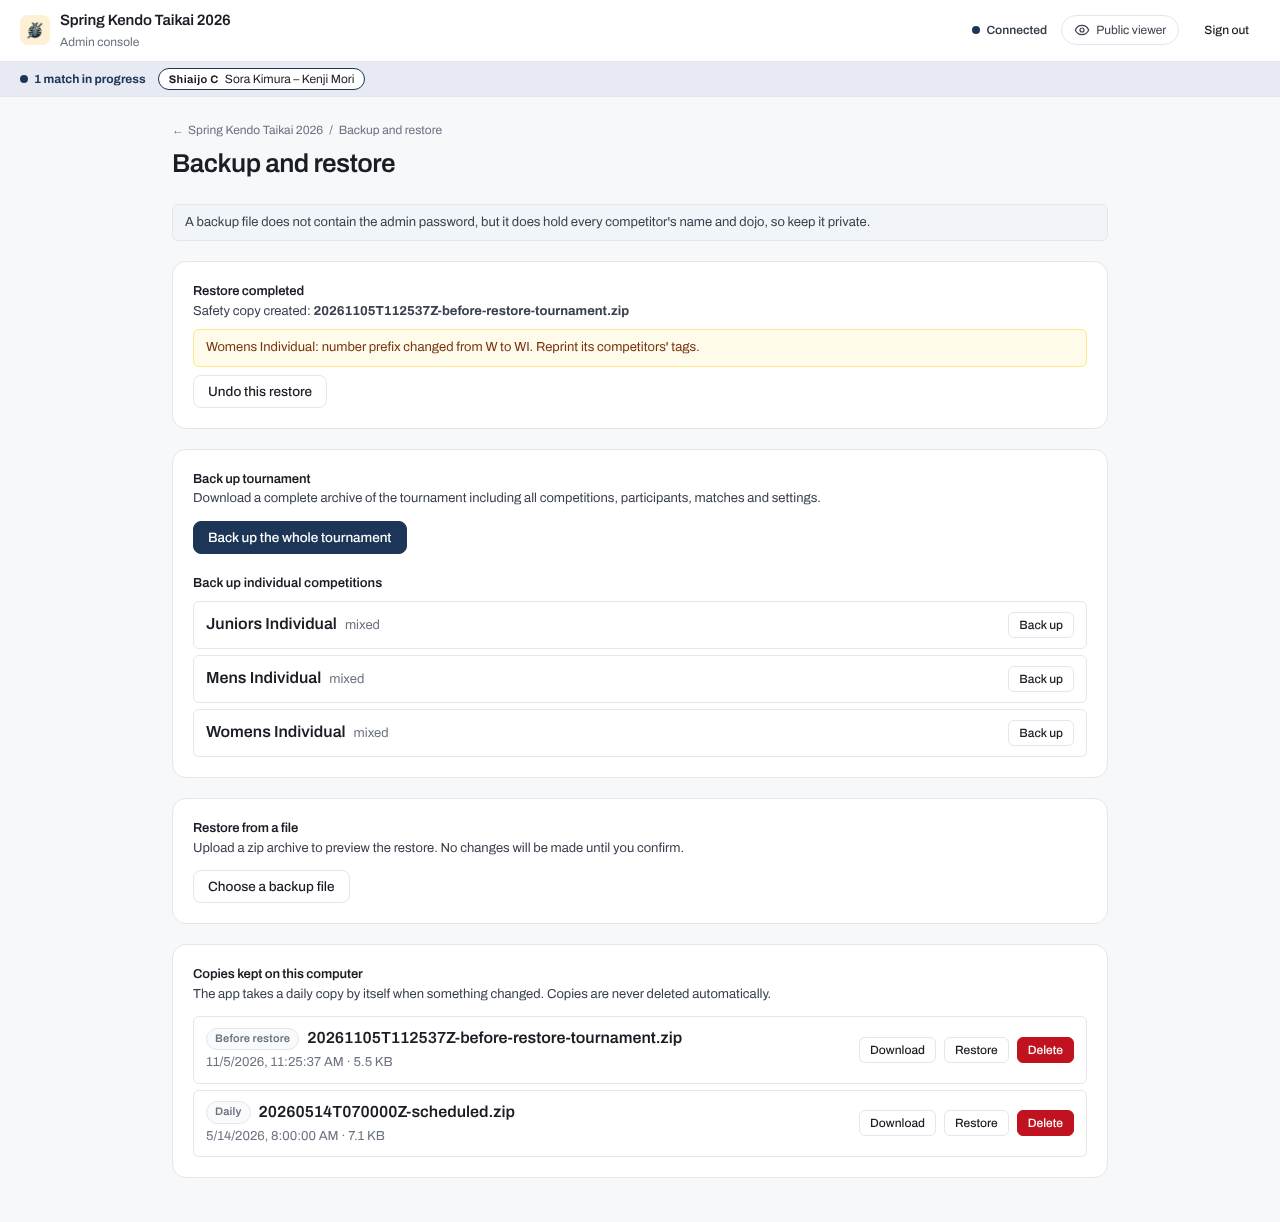
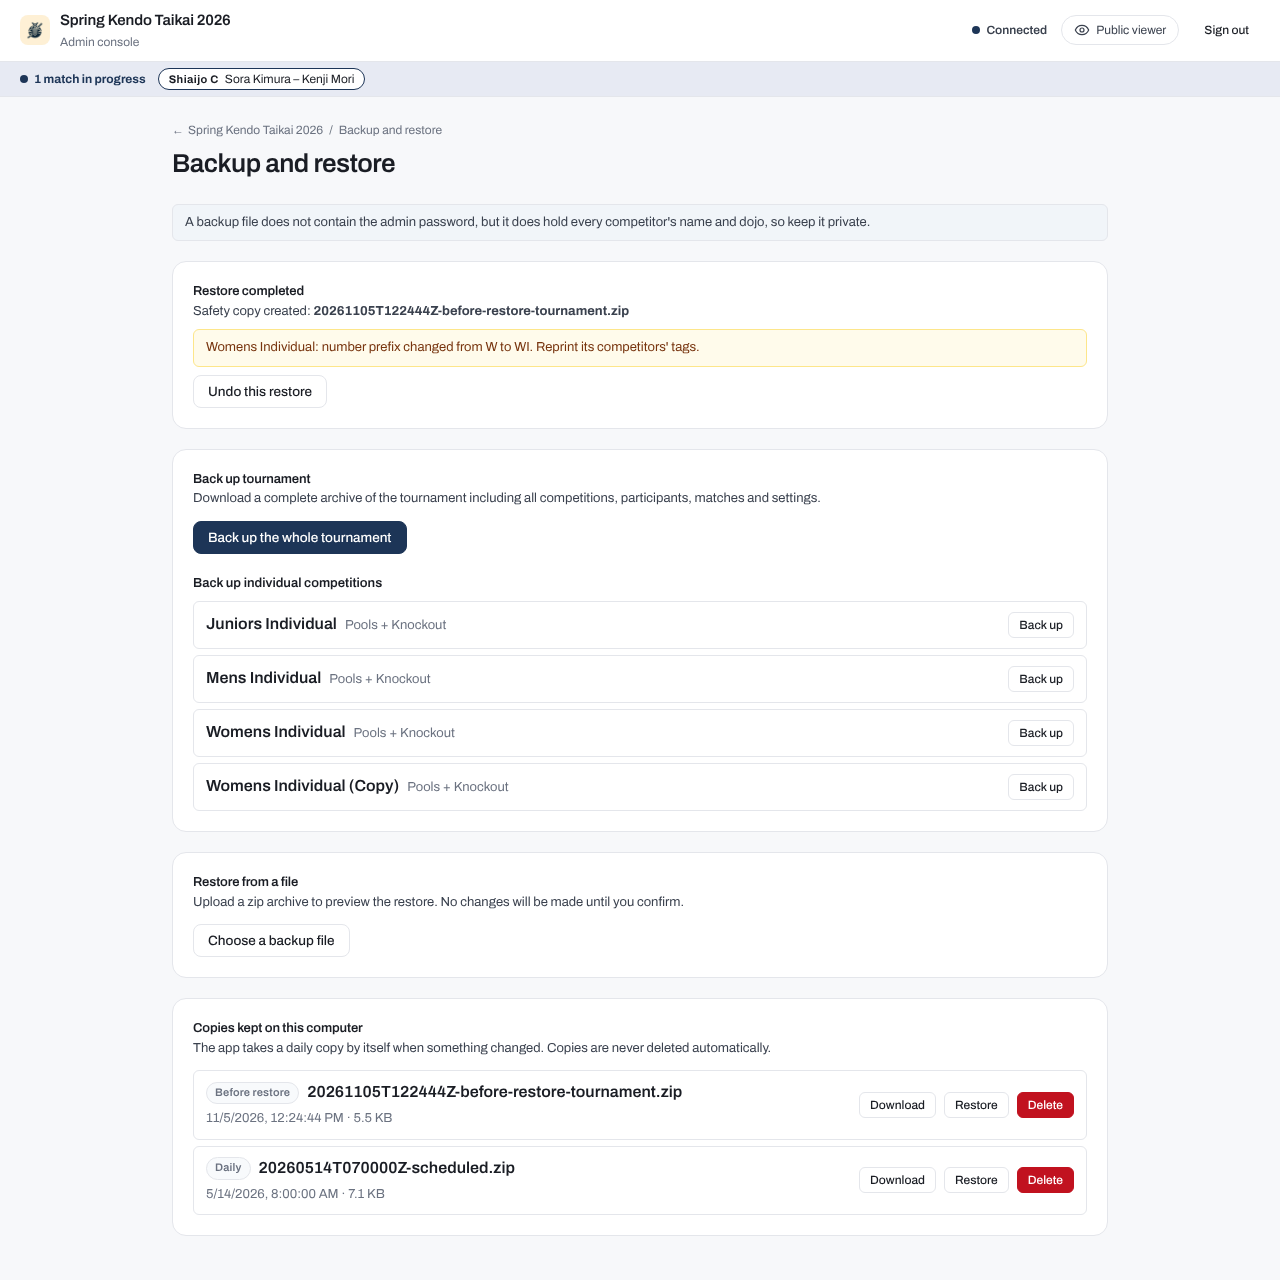
fix(bc-bkrs): the restore plan names each competition once and reads its format
A repeat design audit of the backup page found four major and five minor
findings, now fixed:

- Each competition's choices are one group named by the competition, so the
  labels say only what they do (Replace it, Keep it, Remove it) and the name is
  not repeated in every label.
- The results list says "lost or changed" once, in its heading, and counts a
  single result as "1 recorded result".
- The copy-name box has its own accessible name; it was named only by its
  placeholder, which repeated the competition's name.
- Each competition's format shows its label (Pools + Knockout, Knockout), not
  the stored code, and a competition with no format reads Knockout as it does
  everywhere else.
- The court-sync warning leads with what to do and lists the three outcomes,
  including an older score going to the match's history, as the docs say.
- Headings go h1, h2, h3 without skipping; the safety copy and file name lines
  use their own class; the kept-copy time line uses 4px from the spacing set.
- A long competition name wraps in its own column, so its button stays on the
  right at phone width.

diff --git a/web-mobile/js/admin_backup.jsx b/web-mobile/js/admin_backup.jsx
@@ -5,6 +5,8 @@ const { useState, useEffect, useRef, useCallback } = React;
 
 const AdminTopbar = window.AdminTopbar;
 const Breadcrumbs = window.Breadcrumbs;
+const formatLabel = window.formatLabel;
+const pluralize = window.pluralize;
 
 const RESTORE_TOO_LARGE_MESSAGE = "The backup file is over 64 MB. Restore it from Copies kept on this computer or the command line.";
 
@@ -366,7 +368,7 @@ function AdminBackupPage({ tournament, onBack, onLogout, onViewerMode, password,
             <div className="card__title">Restore completed</div>
             <div className="card__body">
               {restoreResult.safetyCopy && (
-                <p className="backup-intro">
+                <p className="backup-detail">
                   Safety copy created: <strong>{restoreResult.safetyCopy}</strong>
                 </p>
               )}
@@ -425,13 +427,13 @@ function AdminBackupPage({ tournament, onBack, onLogout, onViewerMode, password,
 
             {comps.length > 0 && (
               <>
-                <h3 className="backup-subhead">Back up individual competitions</h3>
+                <h2 className="backup-subhead">Back up individual competitions</h2>
                 <div className="backup-list">
                   {comps.map((c) => (
                     <div key={c.id} className="backup-row">
                       <div className="backup-row__main">
                         <span className="backup-row__name">{c.name}</span>
-                        <span className="backup-row__meta">{c.format || "pools"}</span>
+                        <span className="backup-row__meta">{formatLabel(c.format)}</span>
                       </div>
                       <button
                         type="button"
@@ -480,16 +482,21 @@ function AdminBackupPage({ tournament, onBack, onLogout, onViewerMode, password,
 
             {plan && (
               <div className="backup-plan">
-                <h3 className="backup-subhead">Restore plan ({plan.scope} archive)</h3>
+                <h2 className="backup-subhead">Restore plan ({plan.scope} archive)</h2>
                 {(selectedFromName || selectedFile?.name) && (
-                  <p className="backup-intro">
+                  <p className="backup-detail">
                     From <strong>{selectedFromName || selectedFile.name}</strong>
                   </p>
                 )}
 
                 <div className="backup-alerts">
                   <div className="alert alert--warn">
-                    Let every court device sync before you restore. A change a court device makes before the restore and sends after it is usually applied when it arrives, because it is newer than the restored record. If the restored copy already has that match finished, the change is kept in the match&apos;s history instead and not shown. If the restored copy does not hold that match, the change is refused.
+                    <strong>Let every court device sync before you restore.</strong> A score a device sends after the restore:
+                    <ul>
+                      <li>is applied when it is newer than the restored match</li>
+                      <li>goes to the match&apos;s history, not the result, when it is older or the backup has that match finished</li>
+                      <li>is refused when the backup does not hold that match</li>
+                    </ul>
                   </div>
                   {(plan.warnings || []).map((w) => (
                     <div key={`${w.code}-${w.competitionId || ""}-${w.court || ""}`} className="alert alert--warn">
@@ -498,13 +505,13 @@ function AdminBackupPage({ tournament, onBack, onLogout, onViewerMode, password,
                   ))}
                   {(plan.competitions || []).some((c) => c.resultsChanged && c.resultsChanged.length > 0) && (
                     <div className="alert alert--error">
-                      <strong>Results that will be lost:</strong>
+                      <strong>Results that will be lost or changed:</strong>
                       <ul>
                         {plan.competitions
                           .filter((c) => c.resultsChanged && c.resultsChanged.length > 0)
                           .map((c) => (
                             <li key={c.id}>
-                              {c.resultsChanged.length} recorded results in &quot;{c.name}&quot; will be lost or changed.
+                              {pluralize(c.resultsChanged.length, "recorded result")} in &quot;{c.name}&quot;
                             </li>
                           ))}
                       </ul>
@@ -512,16 +519,17 @@ function AdminBackupPage({ tournament, onBack, onLogout, onViewerMode, password,
                   )}
                 </div>
 
-                <h4 className="backup-subhead">Competitions to restore</h4>
+                <h3 className="backup-subhead">Competitions to restore</h3>
                 <div className="backup-list">
                   {plan.competitions.map((c) => {
                     const currentDecision = decisions[c.id] || {};
                     const isMissingFromArchive = c.choices?.includes("keep") || c.choices?.includes("remove");
+                    const nameId = `backup-comp-${c.id}`;
 
                     return (
                       <div key={c.id} className="backup-row backup-row--plan">
                         <div className="backup-row__head">
-                          <span className="backup-row__name">{c.name}</span>
+                          <span id={nameId} className="backup-row__name">{c.name}</span>
                           {plan.scope === "tournament" && !plan.undo && !onlyCompId && !isMissingFromArchive && (
                             <button
                               type="button"
@@ -548,8 +556,8 @@ function AdminBackupPage({ tournament, onBack, onLogout, onViewerMode, password,
                         {!c.asked ? (
                           <div className="backup-row__note">Will be created as a new competition.</div>
                         ) : isMissingFromArchive ? (
-                          <div>
-                            <div className="backup-row__note">This competition is not in the backup archive:</div>
+                          <fieldset className="backup-choices" aria-labelledby={`${nameId} ${nameId}-note`}>
+                            <legend id={`${nameId}-note`} className="backup-row__note">This competition is not in the backup archive:</legend>
                             <label className="backup-choice">
                               <input
                                 type="radio"
@@ -558,7 +566,7 @@ function AdminBackupPage({ tournament, onBack, onLogout, onViewerMode, password,
                                 checked={currentDecision.action === "keep"}
                                 onChange={() => handleDecisionChange(c.id, "keep")}
                               />
-                              Keep &quot;{c.name}&quot;
+                              Keep it
                             </label>
                             <label className="backup-choice">
                               <input
@@ -568,12 +576,12 @@ function AdminBackupPage({ tournament, onBack, onLogout, onViewerMode, password,
                                 checked={currentDecision.action === "remove"}
                                 onChange={() => handleDecisionChange(c.id, "remove")}
                               />
-                              Remove &quot;{c.name}&quot;
+                              Remove it
                             </label>
-                          </div>
+                          </fieldset>
                         ) : (
-                          <div>
-                            <div className="backup-row__note">This competition already exists:</div>
+                          <fieldset className="backup-choices" aria-labelledby={`${nameId} ${nameId}-note`}>
+                            <legend id={`${nameId}-note`} className="backup-row__note">This competition already exists:</legend>
                             <label className="backup-choice">
                               <input
                                 type="radio"
@@ -582,7 +590,7 @@ function AdminBackupPage({ tournament, onBack, onLogout, onViewerMode, password,
                                 checked={currentDecision.action === "replace"}
                                 onChange={() => handleDecisionChange(c.id, "replace")}
                               />
-                              Replace &quot;{c.name}&quot;
+                              Replace it
                             </label>
                             <label className="backup-choice backup-choice--copy">
                               <span className="backup-choice__radio">
@@ -598,13 +606,13 @@ function AdminBackupPage({ tournament, onBack, onLogout, onViewerMode, password,
                               <input
                                 type="text"
                                 className="input backup-copy-name"
-                                placeholder={`${c.name} (Copy)`}
+                                aria-label={`Name for the copy of "${c.name}"`}
                                 value={currentDecision.copyName || ""}
                                 onChange={(e) => handleDecisionChange(c.id, "copy", e.target.value)}
                                 onClick={() => handleDecisionChange(c.id, "copy")}
                               />
                             </label>
-                          </div>
+                          </fieldset>
                         )}
                       </div>
                     );

diff --git a/web-mobile/js/__tests__/render/admin_backup.render.test.jsx b/web-mobile/js/__tests__/render/admin_backup.render.test.jsx
@@ -1,5 +1,5 @@
 import React from 'react';
-import { render, act, fireEvent, waitFor, screen } from '@testing-library/react';
+import { render, act, fireEvent, waitFor, screen, within } from '@testing-library/react';
 import { describe, it, expect, vi, beforeAll, afterAll, beforeEach } from 'vitest';
 import { installWindowStubs } from '../helpers/stub_globals.js';
 
@@ -42,13 +42,18 @@ afterAll(() => {
   restoreGlobals();
 });
 
+// A competition's choices are one group, named by the competition; inside it
+// each label says only what it does ("Replace it"), so the name is said once.
+const choiceIn = (compName, label) =>
+  within(screen.getByRole('group', { name: new RegExp(`^${compName} `) })).getByLabelText(label);
+
 const defaultTournament = {
   name: 'Spring Taikai',
   date: '01-06-2026',
   venue: 'Main Arena',
   courts: ['A', 'B'],
   competitions: [
-    { id: 'c1', name: 'Open Individual', format: 'pools' },
+    { id: 'c1', name: 'Open Individual', format: 'mixed' },
     { id: 'c2', name: 'Women Individual', format: 'knockout' },
   ],
 };
@@ -143,7 +148,7 @@ describe('AdminBackupPage render tests', () => {
     expect(screen.getByText('Matches running')).toBeInTheDocument();
     expect(screen.getByText('Mode change')).toBeInTheDocument();
     expect(screen.getByText('Court missing')).toBeInTheDocument();
-    expect(screen.getByText(/1 recorded results in "Open Individual" will be lost or changed/i)).toBeInTheDocument();
+    expect(screen.getByText(/^1 recorded result in "Open Individual"$/)).toBeInTheDocument();
 
     // Verify both choice sets rendered with nothing preselected
     const radios = screen.getAllByRole('radio');
@@ -156,7 +161,7 @@ describe('AdminBackupPage render tests', () => {
     expect(restoreBtn).toBeDisabled();
 
     // Answer choice for c1 as "replace"
-    const replaceRadio = screen.getByLabelText(/Replace "Open Individual"/i);
+    const replaceRadio = choiceIn('Open Individual', 'Replace it');
     await act(async () => {
       fireEvent.click(replaceRadio);
     });
@@ -166,7 +171,7 @@ describe('AdminBackupPage render tests', () => {
     expect(restoreBtn2).toBeDisabled();
 
     // Answer choice for c3_missing as "remove"
-    const removeRadio = screen.getByLabelText(/Remove "Legacy Division"/i);
+    const removeRadio = choiceIn('Legacy Division', 'Remove it');
     await act(async () => {
       fireEvent.click(removeRadio);
     });
@@ -453,7 +458,7 @@ describe('AdminBackupPage render tests', () => {
 
     // Expect choices to be asked
     await waitFor(() => {
-      expect(screen.getByLabelText(/Replace "Open Individual"/i)).toBeInTheDocument();
+      expect(choiceIn('Open Individual', 'Replace it')).toBeInTheDocument();
     });
   });
 
@@ -493,7 +498,7 @@ describe('AdminBackupPage render tests', () => {
     // The server's warning is the one place running matches are named: no second list repeats it.
     expect(screen.getByText('Open Individual has 1 match running now.')).toBeInTheDocument();
     expect(screen.queryByText(/Running matches affected/i)).not.toBeInTheDocument();
-    expect(screen.getByText(/2 recorded results in "Open Individual" will be lost or changed/i)).toBeInTheDocument();
+    expect(screen.getByText(/^2 recorded results in "Open Individual"$/)).toBeInTheDocument();
     expect(screen.getByText(/Let every court device sync before you restore/i)).toBeInTheDocument();
   });
 
@@ -525,6 +530,29 @@ describe('AdminBackupPage render tests', () => {
     expect(screen.queryByText(/m7/)).not.toBeInTheDocument();
     expect(screen.getAllByText(/Juniors/).filter((el) => /Choose what to do/.test(el.textContent))).toHaveLength(1);
     expect(screen.queryByText(/Please /)).not.toBeInTheDocument();
+    // The competition's name heads its row once; the choices do not repeat it.
+    const group = screen.getByRole('group', { name: /Juniors.*not in the backup archive/ });
+    expect(within(group).getByLabelText('Keep it')).toBeInTheDocument();
+    expect(within(group).getByLabelText('Remove it')).toBeInTheDocument();
+    expect(within(group).queryByText(/Juniors/)).not.toBeInTheDocument();
+  });
+
+  it('names the copy box for its competition and shows each format by its label', async () => {
+    mockApi.planRestore.mockResolvedValueOnce({
+      scope: 'tournament',
+      competitions: [{ id: 'c1', name: 'Open Individual', asked: true, choices: ['replace', 'copy'] }],
+    });
+    const { container } = render(
+      <AdminBackupPage tournament={defaultTournament} password={TEST_KEY} />
+    );
+    expect(screen.getByText('Pools + Knockout')).toBeInTheDocument();
+    expect(screen.getByText('Knockout')).toBeInTheDocument();
+    const fileInput = container.querySelector('input[type="file"]');
+    await act(async () => {
+      fireEvent.change(fileInput, { target: { files: [new File(['dummy'], 'backup.zip')] } });
+    });
+    const box = await screen.findByRole('textbox', { name: 'Name for the copy of "Open Individual"' });
+    expect(box).not.toHaveAttribute('placeholder');
   });
 
   it('b. allowRunning: with running matches in the plan, restore is called with allowRunning true; without, it is not', async () => {
@@ -773,7 +801,8 @@ describe('AdminBackupPage render tests', () => {
     expect(mockApi.planRestore.mock.calls[0][0].undo).not.toBe(true);
 
     // Asked choices render with nothing selected
-    const radio = await screen.findByLabelText(/Replace "Open Individual"/i);
+    await screen.findByRole('group', { name: /Open Individual/ });
+    const radio = choiceIn('Open Individual', 'Replace it');
     expect(radio).toBeInTheDocument();
     expect(radio).not.toBeChecked();
 

diff --git a/web-mobile/css/styles.css b/web-mobile/css/styles.css
@@ -11306,7 +11306,8 @@ abbr.msb-lab { text-decoration: none; cursor: help; }
 .backup-page { max-width: 1000px; }
 .backup-page > .alert,
 .backup-page > .card { margin-bottom: 20px; }
-.backup-intro {
+.backup-intro,
+.backup-detail {
   margin: 0 0 12px;
   font-size: var(--fs-sm);
   line-height: var(--lh-base);
@@ -11362,6 +11363,10 @@ abbr.msb-lab { text-decoration: none; cursor: help; }
 .backup-row__main,
 .backup-row__name { min-width: 0; overflow-wrap: anywhere; }
 .backup-row__name { font-weight: 600; }
+/* The name column wraps its own text before the row drops its buttons below,
+   so a long name never moves the button; only a row of several buttons wraps. */
+.backup-row__main { flex: 1 1 10rem; }
+.backup-row__head .backup-row__name { flex: 1 1 0; }
 .backup-row__main .backup-row__meta { margin-left: 8px; }
 .backup-row__title {
   display: flex;
@@ -11369,7 +11374,7 @@ abbr.msb-lab { text-decoration: none; cursor: help; }
   align-items: center;
   gap: 8px;
 }
-.backup-row__title + .backup-row__meta { display: block; margin: 2px 0 0; }
+.backup-row__title + .backup-row__meta { display: block; margin: 4px 0 0; }
 .backup-row__meta {
   font-size: var(--fs-sm);
   color: var(--ink-3);
@@ -11382,6 +11387,8 @@ abbr.msb-lab { text-decoration: none; cursor: help; }
 .backup-row__actions,
 .backup-row__head .btn { white-space: nowrap; }
 .backup-row__actions { display: flex; flex-wrap: wrap; gap: 8px; }
+.backup-choices { margin: 0; padding: 0; border: 0; min-width: 0; }
+.backup-choices > legend { padding: 0; }
 .backup-choice,
 .backup-choice__radio {
   display: flex;

diff --git a/docs/user-guide/organisers/backup-and-restore.md b/docs/user-guide/organisers/backup-and-restore.md
@@ -61,11 +61,11 @@ In the restore plan, each competition from the backup has a **Restore only this 
 When restoring, the plan presents you with decisions depending on what is currently in your data folder:
 
 - **For a competition that already exists in the folder**:
-    - **Replace "<name>"**: overwrites the current competition with the one from the backup.
+    - **Replace it**: overwrites the current competition with the one from the backup.
     - **Restore as a copy named:** keeps your current competition intact and restores the backup copy under a new name. You must type a name for the new copy in the box.
 - **For a competition that exists in the folder but is missing from the backup file** (when restoring a whole tournament):
-    - **Keep "<name>"**: leaves the competition in your tournament folder as it is.
-    - **Remove "<name>"**: deletes the competition from your tournament folder.
+    - **Keep it**: leaves the competition in your tournament folder as it is.
+    - **Remove it**: deletes the competition from your tournament folder.
 
 Nothing is preselected. Until you make a choice for every competition that requires one, the button stays disabled and names the next open choice, for example `Choose what to do with "Mens Individual"` or `Enter name for copy of "Mens Individual"`.
 
